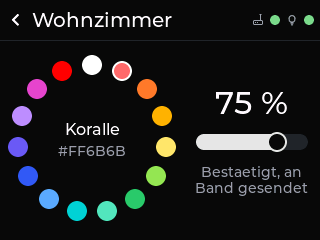
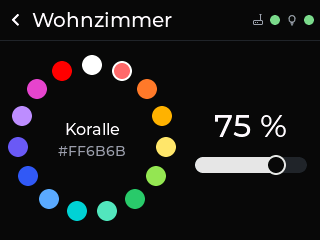
RockBase-UI: Sende- und Bestaetigungstexte entfernen
- Detailansicht: Statuszeile unter der Helligkeit entfaellt.
- Uebersicht und Gateway-Liste: kein "Wird gesendet ...", "Keine Antwort",
  "Abgleich ..." mehr; die zweite Zeile zeigt nur den Lampenzustand.
- Gateway-Details: Zeile "Revision ..., an Band gesendet bis ..." entfaellt.
- PAIRING.md und Screenshots angepasst.

Claude-Session: https://claude.ai/code/session_01XRbTNR4FRdpa3sNittWBxo

Changed region(s): [[0.5938, 0.3792, 0.9688, 0.8167]]

diff --git a/next/controller/main/ui_detail.cpp b/next/controller/main/ui_detail.cpp
@@ -1,6 +1,7 @@
 // Detailansicht eines Gateways im Stil der Legacy-LCD-UI, auf 320x240 nebeneinander:
 // links das Farbrad (Farbset aus LeviPalette, Name und Hex in der Mitte, Tippen = naechste Farbe),
-// rechts die Helligkeit (5..100 % in 5er-Schritten wie Legacy) und der Status.
+// rechts die Helligkeit (5..100 % in 5er-Schritten wie Legacy). Keine Statustexte: Verbindung und
+// Licht zeigen die Statuspunkte, gesperrte Bedienelemente zeigen, dass nichts steuerbar ist.
 // Ein/Aus liegt auf der Uebersicht (Schalter je Gateway). Der Musikmodus hat bewusst kein
 // Bedienelement, solange er am Band nicht getestet ist (die ESP-NOW-Befehle bleiben bestehen).
 // Alle Anzeigen folgen dem vom Gateway bestaetigten Zustand.
@@ -14,7 +15,7 @@
 
 static int gw = -1;
 static lv_obj_t *ring, *dots[LeviPalette::N], *pickName, *pickHex;
-static lv_obj_t *bar, *barLbl, *statusLbl;
+static lv_obj_t *bar, *barLbl;
 static lv_obj_t *dotOnline, *dotPower;
 static lv_image_dsc_t bulbDsc, gatewayDsc;
 static int selected = -1; // Palettenindex der bestaetigten Farbe, -1 = eigene Farbe
@@ -129,25 +130,6 @@ static void refresh(bool) {
   lv_label_set_text(pickName, name);
   lv_label_set_text(pickHex, hex);
 
-  char st[64];
-  if (!v.online) {
-    snprintf(st, sizeof(st), "Gateway offline");
-  } else if (v.pending) {
-    snprintf(st, sizeof(st), "Wird gesendet ...");
-  } else if (v.lastTimeout || v.lastError) {
-    snprintf(st, sizeof(st), "%s", appErrorText(v.lastError, v.lastTimeout));
-  } else if (!v.stateValid) {
-    snprintf(st, sizeof(st), "Abgleich ...");
-  } else if (!ble) {
-    snprintf(st, sizeof(st), "Band nicht verbunden");
-  } else if (!on) {
-    snprintf(st, sizeof(st), "Aus (Einschalten in der Uebersicht)");
-  } else if (v.state.sent_revision >= v.state.revision) {
-    snprintf(st, sizeof(st), "Bestaetigt, an Band gesendet");
-  } else {
-    snprintf(st, sizeof(st), "Bestaetigt, Band folgt ...");
-  }
-  lv_label_set_text(statusLbl, st);
 }
 
 void uiShowDetail(int idx) {
@@ -197,7 +179,7 @@ void uiShowDetail(int idx) {
   lv_theme_shadcn_set_text_role(pickHex, LV_THEME_SHADCN_TEXT_MUTED);
   lv_obj_align(pickHex, LV_ALIGN_CENTER, 0, 12);
 
-  // rechte Spalte: Helligkeit und Status
+  // rechte Spalte: Helligkeit
   lv_obj_t *col = lv_obj_create(content);
   lv_obj_set_flex_grow(col, 1);
   lv_obj_set_height(col, LV_PCT(100));
@@ -217,9 +199,5 @@ void uiShowDetail(int idx) {
   lv_obj_set_size(bar, LV_PCT(90), 16);
   lv_obj_add_event_cb(bar, barChanged, LV_EVENT_VALUE_CHANGED, nullptr);
 
-  statusLbl = uiLabel(col, "", true);
-  lv_label_set_long_mode(statusLbl, LV_LABEL_LONG_MODE_WRAP);
-  lv_obj_set_width(statusLbl, LV_PCT(100));
-  lv_obj_set_style_text_align(statusLbl, LV_TEXT_ALIGN_CENTER, 0);
   refresh(true);
 }

diff --git a/next/controller/main/ui_home.cpp b/next/controller/main/ui_home.cpp
@@ -1,6 +1,6 @@
 // Uebersicht: alle gekoppelten Gateways als Karten (Farbe, Name, Status, Ein/Aus-Schalter).
 // Antippen der Karte oeffnet die Detailansicht. Angezeigt wird nur der bestaetigte Zustand;
-// waehrend ein Befehl unterwegs ist, steht "Wird gesendet ...".
+// waehrend ein Befehl unterwegs ist, bleibt die Eingabe am Schalter sichtbar (keine Statustexte).
 #include <stdio.h>
 #include "lv_theme_shadcn.h"
 #include "ui.h"
@@ -36,16 +36,12 @@ static void setupClicked(lv_event_t *) {
   uiShowGateways();
 }
 
-// Statuszeile einer Karte aus dem bestaetigten Zustand
+// Statuszeile einer Karte aus dem bestaetigten Zustand (nur Lampenzustand, keine Sende-/Bestaetigungsinfos)
 void uiGatewayStatusText(const GatewayView &v, char *out, size_t cap) {
   if (!v.online) {
     snprintf(out, cap, "Offline");
-  } else if (v.pending) {
-    snprintf(out, cap, "Wird gesendet ...");
-  } else if (v.lastTimeout) {
-    snprintf(out, cap, "Keine Antwort");
   } else if (!v.stateValid) {
-    snprintf(out, cap, "Abgleich ...");
+    snprintf(out, cap, "-");
   } else if (!(v.state.flags & LVP_STATE_BLE)) {
     snprintf(out, cap, "Band nicht verbunden");
   } else if (v.state.power == 1) {

diff --git a/next/controller/main/ui_settings.cpp b/next/controller/main/ui_settings.cpp
@@ -308,11 +308,9 @@ static void detailRefresh(bool) {
   char st[48];
   uiGatewayStatusText(v, st, sizeof(st));
   int n = snprintf(t, sizeof(t),
-                   "ID: %s\nGemeldeter Name: %s\nFirmware: %u.%u\nVerbindung: %s (zuletzt %s)\nBand (BLE): %s\nZustand: %s\nRevision %lu, an Band "
-                   "gesendet bis %lu\nSchluessel: %s",
+                   "ID: %s\nGemeldeter Name: %s\nFirmware: %u.%u\nVerbindung: %s (zuletzt %s)\nBand (BLE): %s\nZustand: %s\nSchluessel: %s",
                    id, v.announcedName[0] ? v.announcedName : "-", v.fwVersion >> 8, v.fwVersion & 0xFF, v.online ? "online" : "offline", seen,
-                   v.stateValid && (v.state.flags & LVP_STATE_BLE) ? "verbunden" : "getrennt", st, (unsigned long)v.state.revision,
-                   (unsigned long)v.state.sent_revision, v.hasKey ? "individuell (verschluesselt)" : "keiner (unverschluesselt)");
+                   v.stateValid && (v.state.flags & LVP_STATE_BLE) ? "verbunden" : "getrennt", st, v.hasKey ? "individuell (verschluesselt)" : "keiner (unverschluesselt)");
 #if CONFIG_LEVILUMA_ZIGBEE_ENABLED
   if (n > 0 && n < (int)sizeof(t)) {
     if (v.zbEndpoint && v.zbEndpoint != 0xFF) {

diff --git a/next/docs/PAIRING.md b/next/docs/PAIRING.md
@@ -27,7 +27,7 @@ Mit Schlüssel ist kein Kopplungsfenster nötig – der Schlüssel ist der Nachw
 ## Verwalten
 
 - **Anzeigename:** Gateway-Seite → *Name*. Der Name wird im Controller gespeichert (leer = Name des Gateways). Den Namen im Gateway selbst ändert die Konsole: `name Wohnzimmer`.
-- **Status:** Die Gateway-Seite zeigt ID, Firmware, online/offline (zuletzt gesehen), Band verbunden, Revision und „an Band gesendet bis“.
+- **Status:** Die Gateway-Seite zeigt ID, Firmware, online/offline (zuletzt gesehen), Band verbunden, Lampenzustand und Schlüssel ja/nein.
 - **Abgleich:** *Abgleich* fragt Zustand und Kalibrierung neu ab (passiert sonst automatisch).
 - **Entkoppeln:** *Entkoppeln* sendet `UNPAIR` an das Gateway und löscht Kopplung, Schlüssel und Zigbee-Zuordnung im Controller sofort (auch wenn das Gateway nicht erreichbar ist). Am Gateway löscht `unpair all` alle Kopplungen.
 - **Konsole des Gateways:** `status` zeigt ID, Name, Schlüssel ja/nein, gekoppelte Controller, Kalibrierung und Bandzustand.
